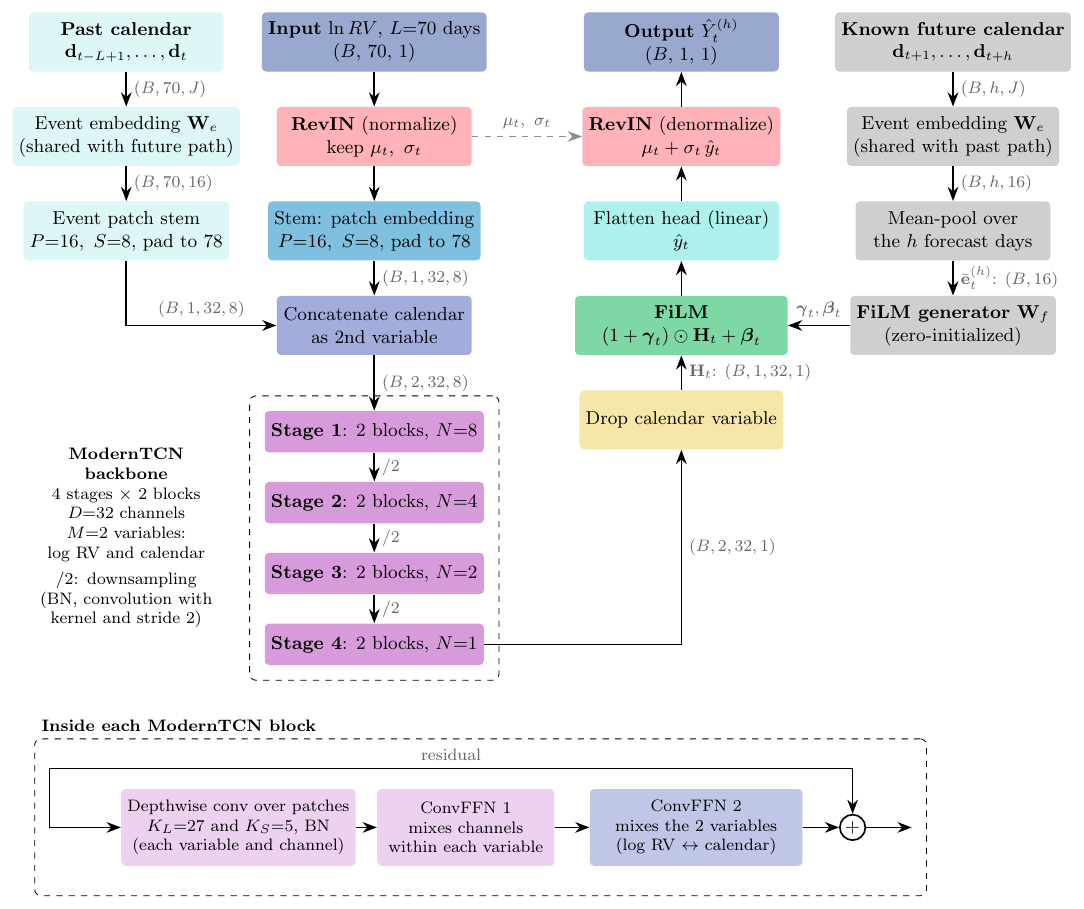
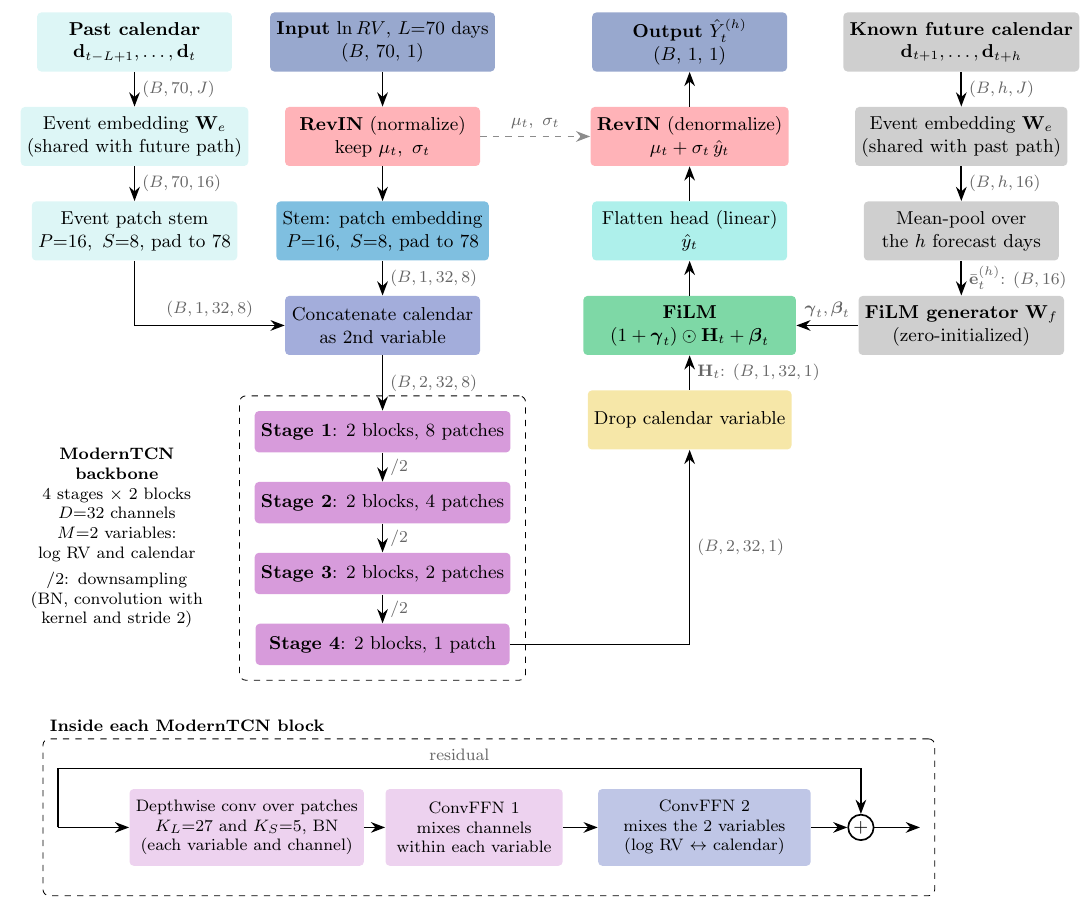
Label backbone stages by patch count, not N
"N=8" in the stage boxes read as eight blocks per stage. Each stage has
two blocks; N is the number of patches. The boxes now say
"2 blocks, 8 patches" and so on, and all four have the same width.

Claude-Session: https://claude.ai/code/session_01Q7HhLFe3Rr7Ry2pMruA621

diff --git a/paper/figures/filmtcn_arch.tex b/paper/figures/filmtcn_arch.tex
@@ -20,7 +20,7 @@
 \begin{tikzpicture}[
   box/.style={rounded corners=2pt, minimum height=1.0cm, minimum width=3.3cm,
               align=center, font=\small, inner sep=3pt},
-  stage/.style={box, fill=cBlock, minimum height=0.7cm},
+  stage/.style={box, fill=cBlock, minimum height=0.7cm, minimum width=4.3cm},
   arr/.style={-{Stealth[length=2.4mm,width=1.8mm]}, line width=0.8pt},
   dim/.style={font=\footnotesize, text=black!60},
   ibox/.style={rounded corners=2pt, minimum height=1.3cm, align=center,
@@ -52,16 +52,16 @@
 \draw[arr] (p3) |- node[dim, pos=0.75, above] {$(B,1,32,8)$} (v4);
 
 % ---- ModernTCN backbone: 4 stages x 2 blocks, downsampling between -------
-\node[stage] (s1) at (4.2,-6.6)  {\textbf{Stage 1}: 2 blocks, $N{=}8$};
-\node[stage] (s2) at (4.2,-7.8)  {\textbf{Stage 2}: 2 blocks, $N{=}4$};
-\node[stage] (s3) at (4.2,-9.0)  {\textbf{Stage 3}: 2 blocks, $N{=}2$};
-\node[stage] (s4) at (4.2,-10.2) {\textbf{Stage 4}: 2 blocks, $N{=}1$};
+\node[stage] (s1) at (4.2,-6.6)  {\textbf{Stage 1}: 2 blocks, 8 patches};
+\node[stage] (s2) at (4.2,-7.8)  {\textbf{Stage 2}: 2 blocks, 4 patches};
+\node[stage] (s3) at (4.2,-9.0)  {\textbf{Stage 3}: 2 blocks, 2 patches};
+\node[stage] (s4) at (4.2,-10.2) {\textbf{Stage 4}: 2 blocks, 1 patch};
 \draw[arr] (s1) -- node[dim, right] {$/2$} (s2);
 \draw[arr] (s2) -- node[dim, right] {$/2$} (s3);
 \draw[arr] (s3) -- node[dim, right] {$/2$} (s4);
 \node[draw, dashed, rounded corners=3pt, fit=(s1)(s2)(s3)(s4),
       inner xsep=0.25cm, inner ysep=0.25cm] (bb) {};
-\node[font=\footnotesize, align=center, text width=3.3cm] at (0,-8.4)
+\node[font=\footnotesize, align=center, text width=3.3cm] at (-0.3,-8.4)
   {\textbf{ModernTCN backbone}\\4 stages $\times$ 2 blocks\\
    $D{=}32$ channels\\$M{=}2$ variables:\\log RV and calendar\\[3pt]
    $/2$: downsampling\\(BN, convolution with\\kernel and stride 2)};

diff --git a/paper/figures/moderntcn_arch.tex b/paper/figures/moderntcn_arch.tex
@@ -15,7 +15,7 @@
 \begin{tikzpicture}[
   box/.style={rounded corners=2pt, minimum height=1.0cm, minimum width=3.3cm,
               align=center, font=\small, inner sep=3pt},
-  stage/.style={box, fill=cBlock, minimum height=0.7cm},
+  stage/.style={box, fill=cBlock, minimum height=0.7cm, minimum width=4.3cm},
   arr/.style={-{Stealth[length=2.4mm,width=1.8mm]}, line width=0.8pt},
   dim/.style={font=\footnotesize, text=black!60},
   ibox/.style={rounded corners=2pt, minimum height=1.3cm, align=center,
@@ -33,16 +33,16 @@
 \draw[arr] (v2) -- (v3);
 
 % ---- backbone: 4 stages x 2 blocks, downsampling between -----------------
-\node[stage] (s1) at (0,-5.0) {\textbf{Stage 1}: 2 blocks, $N{=}8$};
-\node[stage] (s2) at (0,-6.2) {\textbf{Stage 2}: 2 blocks, $N{=}4$};
-\node[stage] (s3) at (0,-7.4) {\textbf{Stage 3}: 2 blocks, $N{=}2$};
-\node[stage] (s4) at (0,-8.6) {\textbf{Stage 4}: 2 blocks, $N{=}1$};
+\node[stage] (s1) at (0,-5.0) {\textbf{Stage 1}: 2 blocks, 8 patches};
+\node[stage] (s2) at (0,-6.2) {\textbf{Stage 2}: 2 blocks, 4 patches};
+\node[stage] (s3) at (0,-7.4) {\textbf{Stage 3}: 2 blocks, 2 patches};
+\node[stage] (s4) at (0,-8.6) {\textbf{Stage 4}: 2 blocks, 1 patch};
 \draw[arr] (s1) -- node[dim, right] {$/2$} (s2);
 \draw[arr] (s2) -- node[dim, right] {$/2$} (s3);
 \draw[arr] (s3) -- node[dim, right] {$/2$} (s4);
 \node[draw, dashed, rounded corners=3pt, fit=(s1)(s2)(s3)(s4),
       inner xsep=0.25cm, inner ysep=0.25cm] (bb) {};
-\node[font=\footnotesize, align=center, text width=3.3cm] at (-4.0,-6.8)
+\node[font=\footnotesize, align=center, text width=3.3cm] at (-4.4,-6.8)
   {\textbf{ModernTCN backbone}\\4 stages $\times$ 2 blocks\\
    $D{=}32$ channels\\$M{=}1$ variable: log RV\\[3pt]
    $/2$: downsampling\\(BN, convolution with\\kernel and stride 2)};
